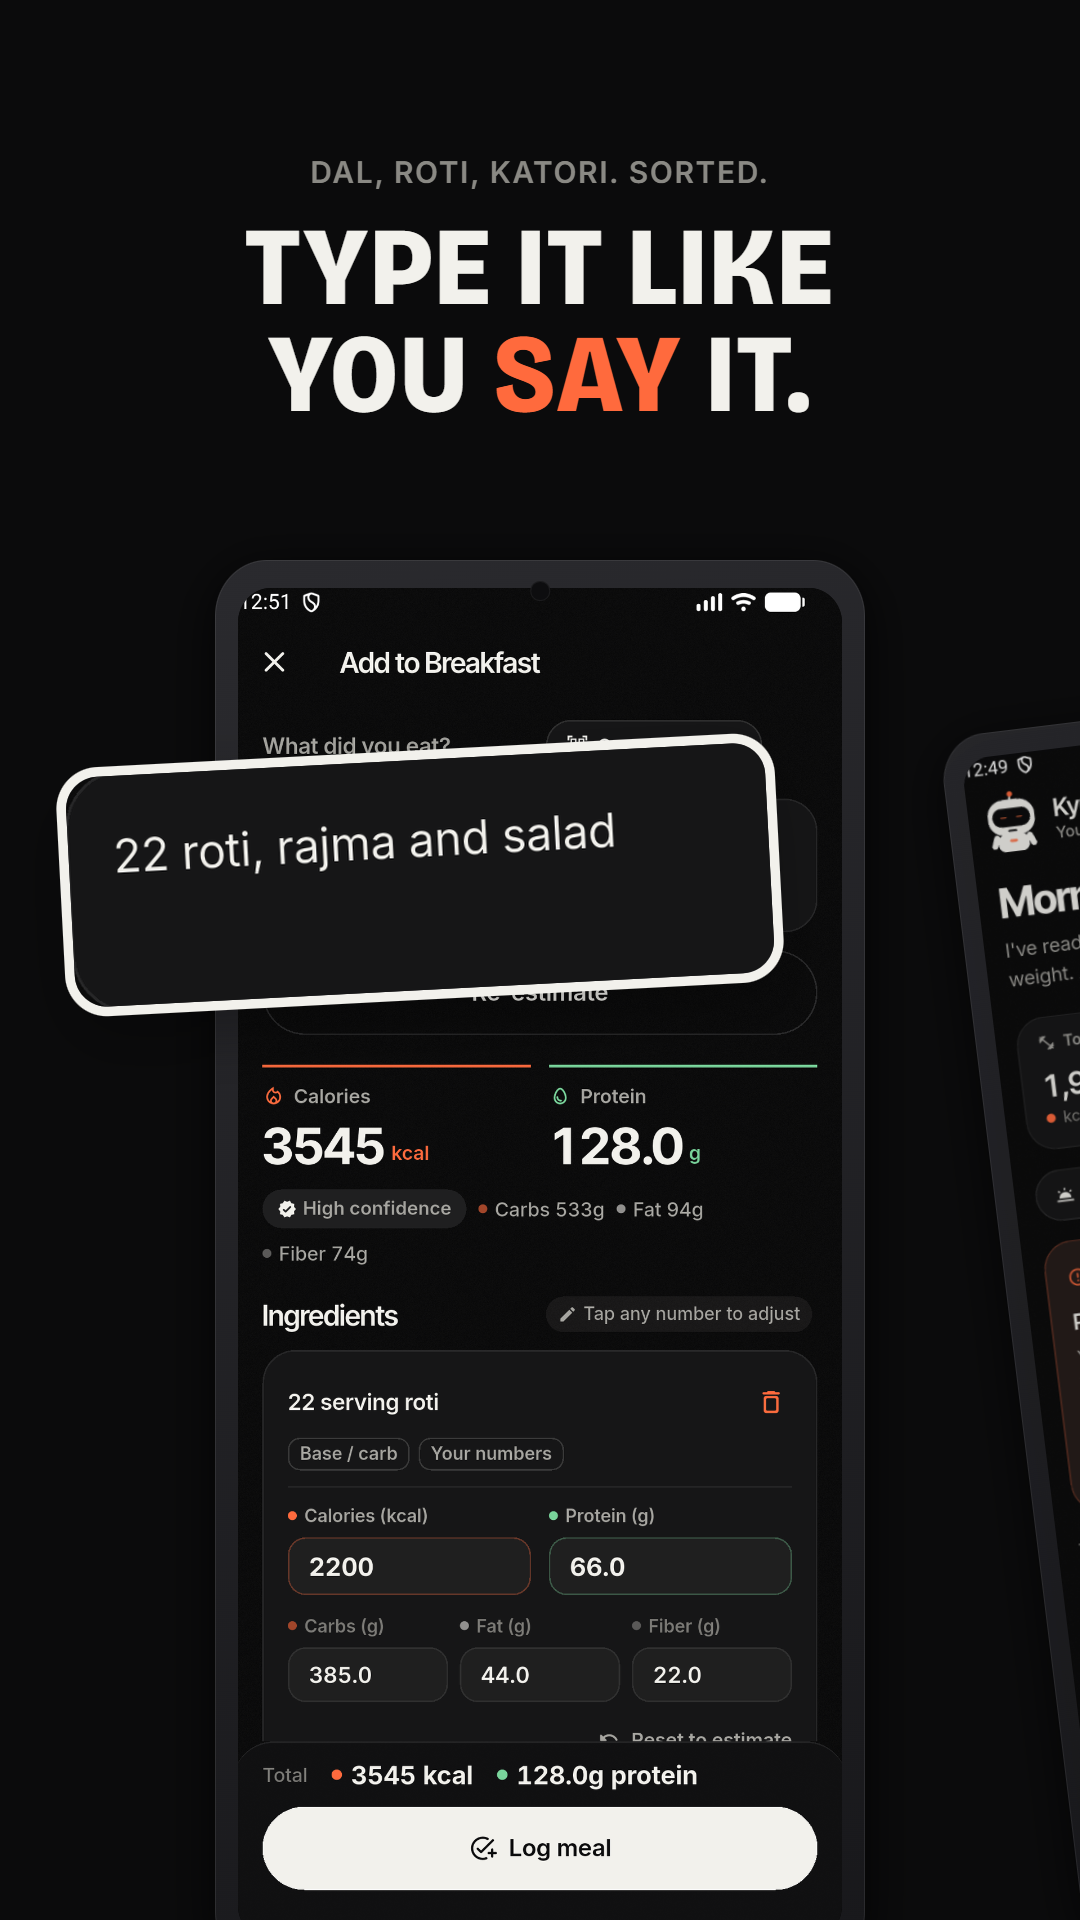
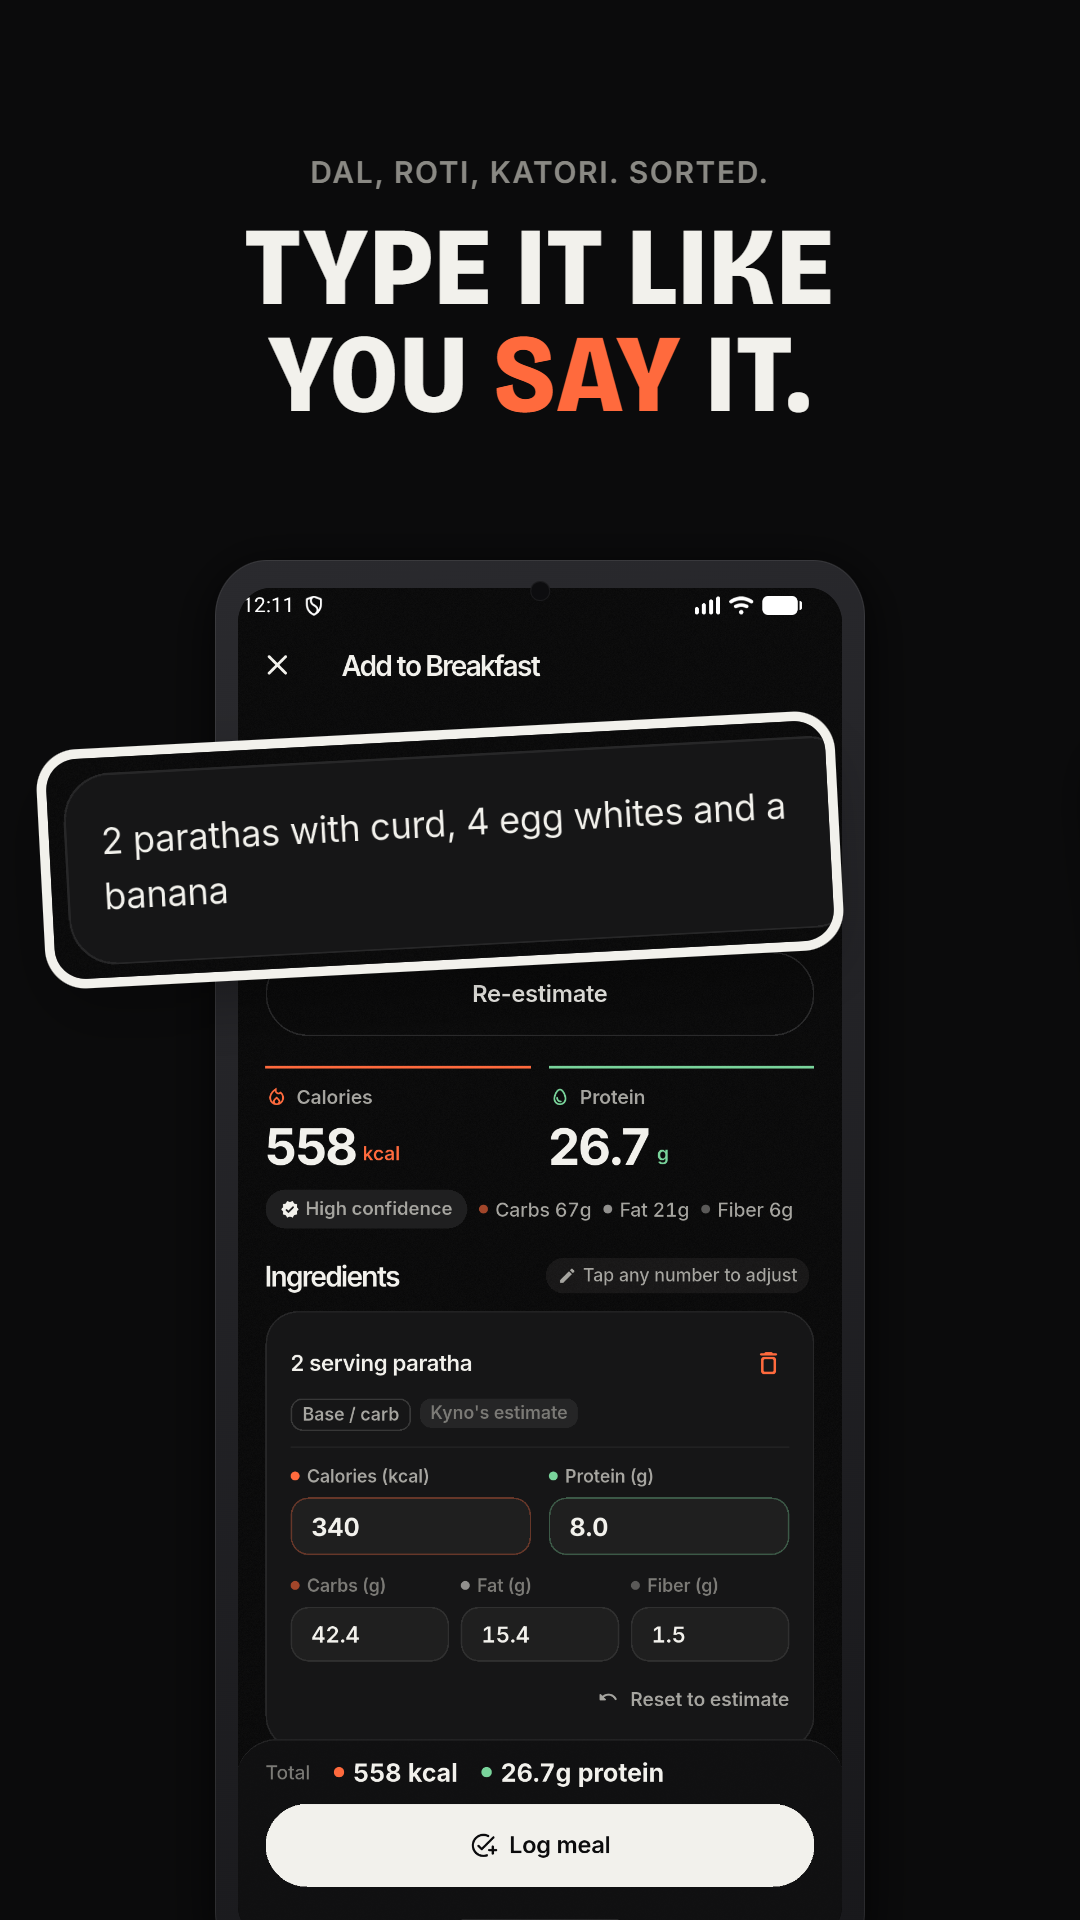
fix(store): clean meal capture on slide 2, all five share cards on slide 5
Slide 2 now magnifies '2 parathas with curd, 4 egg whites and a banana'
(558 kcal). The Sticker card sits on a dark photo-like tile in the slide 5
fan, and slide 3's back phone no longer bleeds into slide 2.

diff --git a/marketing/store-screenshots/scripts/seed-kynetix-deck.py b/marketing/store-screenshots/scripts/seed-kynetix-deck.py
@@ -59,16 +59,16 @@ android = [
     # 02 MEAL: type it in your own words, loupe on the input.
     slide("k02-meal", "device-bottom", "DAL, ROTI, KATORI. SORTED.", "TYPE IT LIKE\nYOU [SAY] IT.", SHOT + "meal.png",
           typography={"headlineScale": 1.12},
-          callout={"focusX": 0.36, "focusY": 0.205, "zoom": 1.9, "shape": "rounded"},
+          callout={"focusX": 0.475, "focusY": 0.206, "zoom": 1.5, "shape": "rounded"},
           transforms={"caption": t(40, 150, 1000, 360, 0, 4), "device": phone(215, 560, 650),
-                      "callout": t(70, 760, 700, 230, -3, 5)}),
+                      "callout": t(50, 740, 780, 220, -3, 5)}),
     # 03 KYNO: the differentiator, on bone for contrast.
     slide("k03-kyno", "two-devices", "MEET KYNO", "A COACH THAT\nREADS [BOTH].", SHOT + "kyno_answer.png",
           screenshotSecondary=SHOT + "kyno_empty.png", inverted=True,
           typography={"headlineScale": 1.12},
           transforms={"caption": t(40, 150, 1000, 360, 0, 4),
-                      "deviceSecondary": phone(-70, 700, 560, -7, 2),
-                      "device": phone(395, 590, 640, 4, 3)},
+                      "deviceSecondary": phone(80, 700, 560, -7, 2),
+                      "device": phone(380, 590, 640, 4, 3)},
           textElements=[txt("sub", "Meals and lifts, read together.", 140, 430, 800, 70, 40, 500, "#55544F", "center")]),
     # 04 WORKOUT: device on top, tilted, caption below.
     slide("k04-sets", "device-top", "TRAINING", "EVERY SET.\n[ONE] TAP.", SHOT + "workout.png",
@@ -79,9 +79,10 @@ android = [
           typography={"headlineScale": 1.3},
           transforms={"caption": t(40, 150, 1000, 360, 0, 4)},
           imageElements=[
-              card("eq", "card-equivalent-graphite.png", 60, 650, 400, -9, 5),
-              card("poster", "card-poster-paper.png", 335, 590, 400, -1, 6),
-              card("receipt", "card-receipt-graphite.png", 605, 630, 400, 7, 7),
+              card("eq", "card-equivalent-graphite.png", 72, 690, 370, -11, 4),
+              card("sticker", "card-sticker-on-tile.png", 225, 630, 370, -5, 5),
+              card("poster", "card-poster-paper.png", 430, 600, 370, 2, 6),
+              card("receipt", "card-receipt-graphite.png", 650, 650, 370, 9, 7),
               # Connected moment: the Skyline card's own bars, stretched into one
               # skyline that runs across screens 5 and 6. The seam splits an ember
               # bar, like the shear cut in the wordmark. No text crosses.

diff --git a/marketing/store-screenshots/scripts/make-sticker-tile.py b/marketing/store-screenshots/scripts/make-sticker-tile.py
@@ -1,0 +1,29 @@
+"""Build public/cards/card-sticker-on-tile.png: the transparent Sticker share card
+laid on a dark, grainy photo-like tile so it reads inside the share-card fan."""
+import random
+from pathlib import Path
+from PIL import Image, ImageDraw, ImageFilter
+
+ROOT = Path(__file__).resolve().parent.parent
+W, H = 1080, 1920
+tile = Image.new("RGB", (W, H))
+d = ImageDraw.Draw(tile)
+for y in range(H):  # flat-ish falloff, darker toward the bottom like a dim gym shot
+    v = int(30 - 14 * y / H)
+    d.line([(0, y), (W, y)], fill=(v, v - 1, v - 2))
+# soft out-of-focus shapes suggest a photo without showing anything specific
+shapes = Image.new("L", (W, H), 0)
+sd = ImageDraw.Draw(shapes)
+random.seed(7)
+for _ in range(9):
+    x, y, r = random.randint(0, W), random.randint(0, H), random.randint(120, 320)
+    sd.ellipse([x - r, y - r, x + r, y + r], fill=random.randint(10, 22))
+shapes = shapes.filter(ImageFilter.GaussianBlur(90))
+tile = Image.composite(Image.new("RGB", (W, H), (70, 68, 64)), tile, shapes)
+noise = Image.effect_noise((W, H), 28).convert("L")
+tile = Image.blend(tile, Image.merge("RGB", (noise, noise, noise)), 0.06)
+sticker = Image.open(ROOT / "public/cards/card-sticker-graphite.png").convert("RGBA")
+tile = tile.convert("RGBA")
+tile.alpha_composite(sticker)
+tile.convert("RGB").save(ROOT / "public/cards/card-sticker-on-tile.png")
+print("ok")
